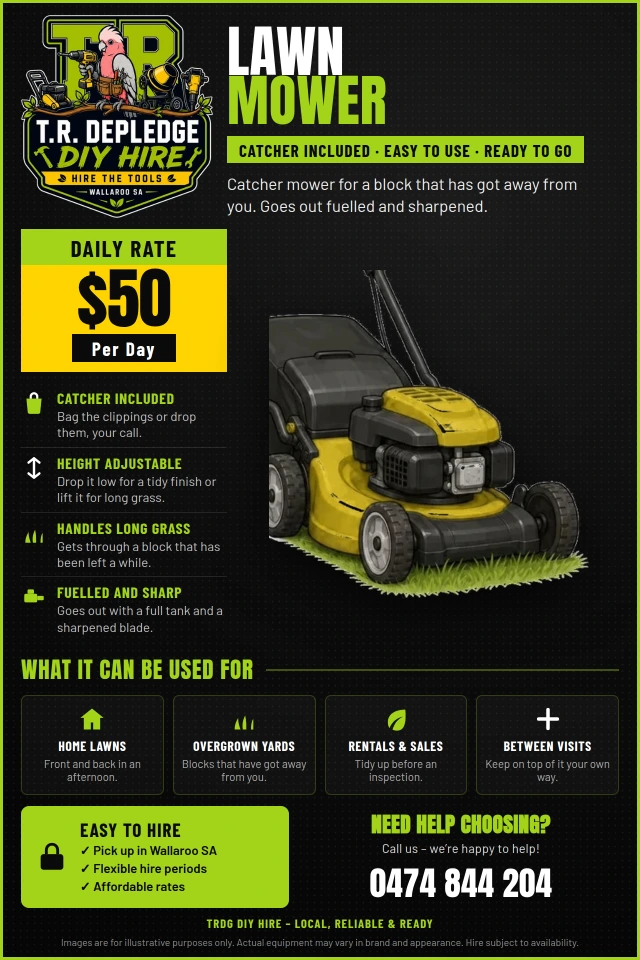
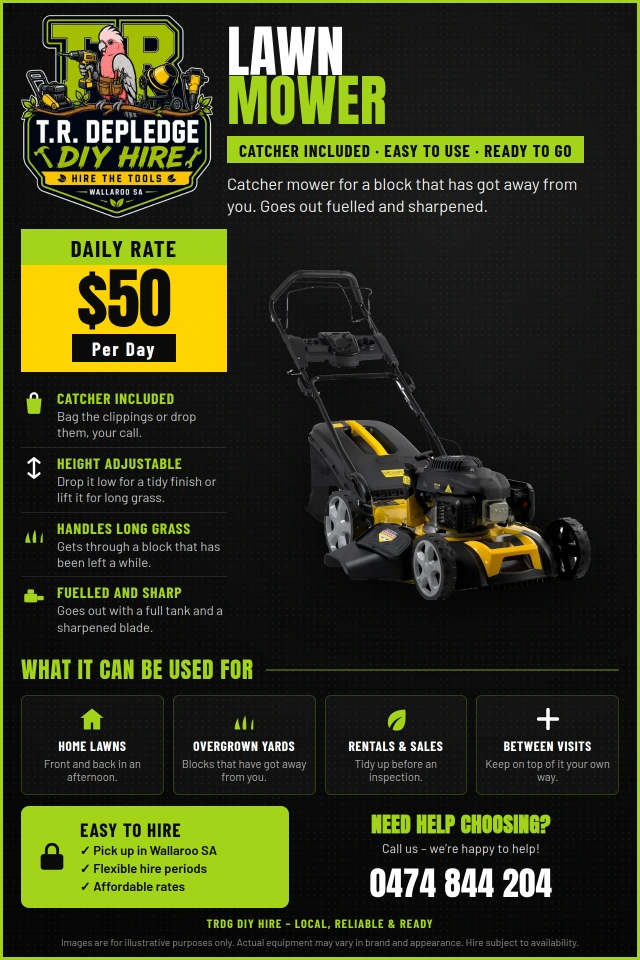
Hire: real lawn mower photo, debranded
Replaces the cartoon crop with the photo you pushed — an actual petrol
mower, in yellow and black, which sits properly alongside the rest of the
floor.

RESTORES A BROKEN IMAGE. The upload commit deleted lawn-mower.webp while
equipment.photo_path still pointed at it, so the card on the live /hire
page was 404ing. This puts the file back at the same path.

The retouch is a committed script, not a one-off edit, so it can be redone
from the original (which stays in history at 89704e9):

  - Four brand marks removed: the console badge, the wordmark printed on
    the catcher, the engine badge and the deck badge.
  - Safety decals deliberately kept. They're generic, they belong on the
    machine, and painting them out would make the photo say something
    untrue about the tool.
  - The catcher wordmark and the badges need different treatment. The
    badges are physical plates, so the whole plate goes — removing just
    the lettering would leave an empty badge, which reads as retouched.
    The wordmark is ink on fabric, so only the ink goes.
  - Growing neighbours inward, which works for the badges, produced a
    lavender ghost of the logo on the bag: the lettering is anti-aliased
    against black and averaging drags that halo into the hole. The bag is
    instead masked past the halo and filled with the fabric's own median
    plus grain matched to its variance.
  - Two bag boxes rather than one. The rear wheel cuts into the corner of
[…]

Changed region(s): [[0.4062, 0.2812, 0.9375, 0.625]]

diff --git a/src/lib/hire/config.ts b/src/lib/hire/config.ts
@@ -117,12 +117,14 @@ export const BONDS_CONFIRMED = true;
 export const UNCONFIRMED_RATE_SLUGS: readonly string[] = [];
 
 /**
- * Items whose photo is a cut-out rather than a product shot, and so render
- * contained-with-a-shadow instead of cropped to fill the card.
+ * Items whose photo has a transparent background, and so render contained
+ * with a shadow rather than cropped to fill the card.
  *
- * // UNCONFIRMED — the lawn mower's image is cropped out of a Thomas
- * cartoon. It's the only non-photographic item and it shows. Remove the
- * slug from this list once Thomas supplies a real photo.
+ * The lawn mower is here because its shot is cut out, NOT because it's a
+ * placeholder — it used to be a crop of a Thomas cartoon and is now a real
+ * photo of the machine, debranded and keyed by
+ * scripts/hire-flyers/debrand-lawn-mower.py. Cropping a cut-out to fill
+ * would slice the handle off, which is the whole reason this list exists.
  */
 export const CUTOUT_PHOTO_SLUGS: readonly string[] = ["lawn-mower"];
 

diff --git a/scripts/hire-flyers/debrand-lawn-mower.py b/scripts/hire-flyers/debrand-lawn-mower.py
@@ -1,0 +1,278 @@
+#!/usr/bin/env python3
+"""Take the manufacturer's branding off the lawn mower photo.
+
+Thomas hires the machine out; the flyer and the card shouldn't advertise
+whoever built it. Four marks come off:
+
+    console  badge on the handle console
+    bag      the printed wordmark on the catcher
+    engine   the badge on the engine cover
+    deck     the badge on the deck
+
+Safety decals are deliberately LEFT ALONE. They're generic, they belong on
+the machine, and painting them out would make the photo say something
+untrue about the tool.
+
+Two techniques, because the marks aren't the same kind of thing:
+
+  * The catcher wordmark is white ink printed straight onto black fabric,
+    so only the bright pixels are removed and the mesh texture around them
+    survives. A box fill there would leave a flat rectangle on a textured
+    bag.
+  * The three badges are physical plates. The whole plate goes, box and
+    all, because removing just its lettering would leave an empty badge —
+    obviously retouched.
+
+Both are filled by growing the surrounding pixels inward, which keeps the
+local gradient rather than stamping on an average colour.
+
+    python3 scripts/hire-flyers/debrand-lawn-mower.py <source.png> <dest.webp>
+
+Not idempotent: run it against the original photo, not its own output.
+"""
+
+import sys
+from pathlib import Path
+
+from PIL import Image, ImageFilter
+
+# Boxes are (left, top, right, bottom) in the 1093x1123 source.
+# Two boxes, not one. The rear wheel cuts into the bottom-right of the
+# wordmark, and its silver hub is every bit as bright as the white ink — a
+# single rectangle masks the wheel too and fills it in with black fabric.
+# These stop short of it.
+BRIGHT_MASK = {
+    "bag-upper": ((150, 686, 252, 742), 110),
+    "bag-lower": ((150, 742, 212, 842), 110),
+}
+
+# The source is a screenshot from a retailer's listing and carries their
+# zoom control in the corner. Painted out to white before the background is
+# keyed, so it simply becomes part of the background.
+SCREENSHOT_ARTIFACTS = [(1040, 1050, 1093, 1110)]
+
+# Smallest run of enclosed white treated as backdrop rather than a
+# highlight. The gaps inside the handle frame are thousands of pixels; a
+# glint on the chrome is a few dozen.
+ENCLOSED_MIN_AREA = 150
+
+BADGES = [
+    ("console", (230, 236, 279, 261)),
+    ("engine", (688, 693, 756, 735)),
+    ("deck", (748, 912, 833, 945)),
+]
+
+
+def inpaint(im: Image.Image, mask: set) -> None:
+    """Fill masked pixels by repeatedly averaging known neighbours.
+
+    Grows the surrounding image inward one ring at a time, so a gradient
+    across the hole is carried through instead of being flattened to the
+    mean. Cheap, and at these sizes the quality is indistinguishable from
+    anything cleverer.
+    """
+    px = im.load()
+    todo = set(mask)
+    while todo:
+        filled = []
+        for x, y in todo:
+            acc, n = [0, 0, 0], 0
+            for dx in (-1, 0, 1):
+                for dy in (-1, 0, 1):
+                    p = (x + dx, y + dy)
+                    if p in todo or p == (x, y):
+                        continue
+                    if not (0 <= p[0] < im.width and 0 <= p[1] < im.height):
+                        continue
+                    c = px[p]
+                    acc[0] += c[0]
+                    acc[1] += c[1]
+                    acc[2] += c[2]
+                    n += 1
+            if n:
+                filled.append(((x, y), (acc[0] // n, acc[1] // n, acc[2] // n, 255)))
+        if not filled:
+            break  # nothing left touching known pixels; shouldn't happen
+        for p, c in filled:
+            px[p] = c
+            todo.discard(p)
+
+
+def smooth(im: Image.Image, box: tuple, radius: float = 1.2) -> None:
+    """Soften a filled area so it doesn't read as a patch of flat noise."""
+    region = im.crop(box).filter(ImageFilter.GaussianBlur(radius))
+    im.paste(region, box)
+
+
+def fill_printed_mark(im: Image.Image, box: tuple, threshold: int) -> int:
+    """Erase white ink printed onto the dark catcher.
+
+    NOT done by growing neighbours inward, which is what the badges use.
+    The lettering is anti-aliased against black, so it's ringed by mid-grey
+    pixels; averaging inward drags those into the hole and leaves a pale
+    ghost of the logo, tinted by whatever colour cast the fabric has. (It
+    came out lavender.)
+
+    Instead the mask is dilated past the halo and filled with the fabric's
+    own median colour plus grain matched to its local variance. The bag is
+    near-uniform at this scale, so it reads as plain black cloth rather
+    than as a patch.
+    """
+    import random
+    import statistics
+
+    px = im.load()
+    x0, y0, x1, y1 = box
+    ink = {
+        (x, y)
+        for y in range(y0, y1)
+        for x in range(x0, x1)
+        if (px[x, y][0] + px[x, y][1] + px[x, y][2]) / 3 > threshold
+    }
+
+    # Dilate by 3 so the grey halo around each stroke goes too.
+    mask = set()
+    for x, y in ink:
+        for dx in range(-3, 4):
+            for dy in range(-3, 4):
+                p = (x + dx, y + dy)
+                if x0 <= p[0] < x1 and y0 <= p[1] < y1:
+                    mask.add(p)
+
+    fabric = [
+        px[x, y]
+        for y in range(y0, y1)
+        for x in range(x0, x1)
+        if (x, y) not in mask and sum(px[x, y][:3]) / 3 < 90
+    ]
+    if not fabric:
+        return 0
+    base = tuple(int(statistics.median(c[i] for c in fabric)) for i in range(3))
+    spread = max(2, int(statistics.pstdev(sum(c[:3]) / 3 for c in fabric)))
+
+    rng = random.Random(7)  # fixed seed: same input, same output
+    for x, y in mask:
+        jitter = rng.gauss(0, spread * 0.5)
+        px[x, y] = tuple(max(0, min(255, int(base[i] + jitter))) for i in range(3)) + (255,)
+
+    smooth(im, box, 0.7)
+    return len(ink)
+
+
+def key_background(im: Image.Image) -> int:
+    """Make the white studio backdrop transparent.
+
+    Flood-filled from the border rather than thresholded on brightness:
+    the mower has bright yellow panels and near-white highlights, and a
+    global threshold punches holes straight through them. Only white that
+    is CONNECTED to the edge of the frame is background.
+
+    The boundary is then eroded by a pixel. The photo's edges are
+    anti-aliased against white, so the outermost ring of the machine is a
+    pale blend — left in place it draws a white halo around the whole tool
+    on the dark card, which is worse than losing a hair off the outline.
+    """
+    px = im.load()
+    w, h = im.size
+    background = set()
+    kept_white = set()
+    stack = []
+
+    def is_white(x, y):
+        r, g, b, _ = px[x, y]
+        return r > 225 and g > 225 and b > 225
+
+    for x in range(w):
+        for y in (0, h - 1):
+            if is_white(x, y):
+                stack.append((x, y))
+    for y in range(h):
+        for x in (0, w - 1):
+            if is_white(x, y):
+                stack.append((x, y))
+
+    while stack:
+        x, y = stack.pop()
+        if (x, y) in background:
+            continue
+        if not (0 <= x < w and 0 <= y < h) or not is_white(x, y):
+            continue
+        background.add((x, y))
+        stack.extend(((x + 1, y), (x - 1, y), (x, y + 1), (x, y - 1)))
+
+    # The handle frame encloses areas of backdrop that the border fill can
+    # never reach. Sweep them up by taking any REMAINING run of white big
+    # enough to be backdrop rather than a highlight — a specular glint on
+    # the chrome is small and rarely this pure, an enclosed panel of studio
+    # white is thousands of pixels.
+    for sy in range(h):
+        for sx in range(w):
+            if (sx, sy) in background or (sx, sy) in kept_white or not is_white(sx, sy):
+                continue
+            blob, work = set(), [(sx, sy)]
+            while work:
+                x, y = work.pop()
+                if (x, y) in blob or (x, y) in background:
+                    continue
+                if not (0 <= x < w and 0 <= y < h) or not is_white(x, y):
+                    continue
+                blob.add((x, y))
+                work.extend(((x + 1, y), (x - 1, y), (x, y + 1), (x, y - 1)))
+            if len(blob) >= ENCLOSED_MIN_AREA:
+                background |= blob
+            else:
+                # Mark it seen so the sweep doesn't re-walk it every row.
+                background |= set()
+                for p in blob:
+                    kept_white.add(p)
+
+    # Grow one ring into the object to take the anti-aliased fringe with it.
+    fringe = set()
+    for x, y in background:
+        for dx in (-1, 0, 1):
+            for dy in (-1, 0, 1):
+                p = (x + dx, y + dy)
+                if 0 <= p[0] < w and 0 <= p[1] < h and p not in background:
+                    fringe.add(p)
+
+    for x, y in background | fringe:
+        r, g, b, _ = px[x, y]
+        px[x, y] = (r, g, b, 0)
+    return len(background) + len(fringe)
+
+
+def main() -> int:
+    src = Path(sys.argv[1]) if len(sys.argv) > 1 else None
+    dest = Path(sys.argv[2]) if len(sys.argv) > 2 else None
+    if not src or not dest:
+        print(__doc__)
+        return 1
+
+    im = Image.open(src).convert("RGBA")
+    px = im.load()
+
+    for name, ((x0, y0, x1, y1), threshold) in BRIGHT_MASK.items():
+        print(f"{name}: {fill_printed_mark(im, (x0, y0, x1, y1), threshold)} ink pixels removed")
+
+    for name, (x0, y0, x1, y1) in BADGES:
+        mask = {(x, y) for y in range(y0, y1) for x in range(x0, x1)}
+        inpaint(im, mask)
+        smooth(im, (x0 - 2, y0 - 2, x1 + 2, y1 + 2), 1.1)
+        print(f"{name}: {(x1 - x0) * (y1 - y0)} px badge removed")
+
+    for box in SCREENSHOT_ARTIFACTS:
+        for y in range(box[1], min(box[3], im.height)):
+            for x in range(box[0], min(box[2], im.width)):
+                px[x, y] = (255, 255, 255, 255)
+
+    keyed = key_background(im)
+    print(f"background: {keyed} px keyed out")
+
+    im = im.crop(im.getbbox())
+    im.save(dest, "WEBP", quality=92, method=6)
+    print(f"wrote {dest} at {im.size[0]}x{im.size[1]}")
+    return 0
+
+
+if __name__ == "__main__":
+    raise SystemExit(main())
